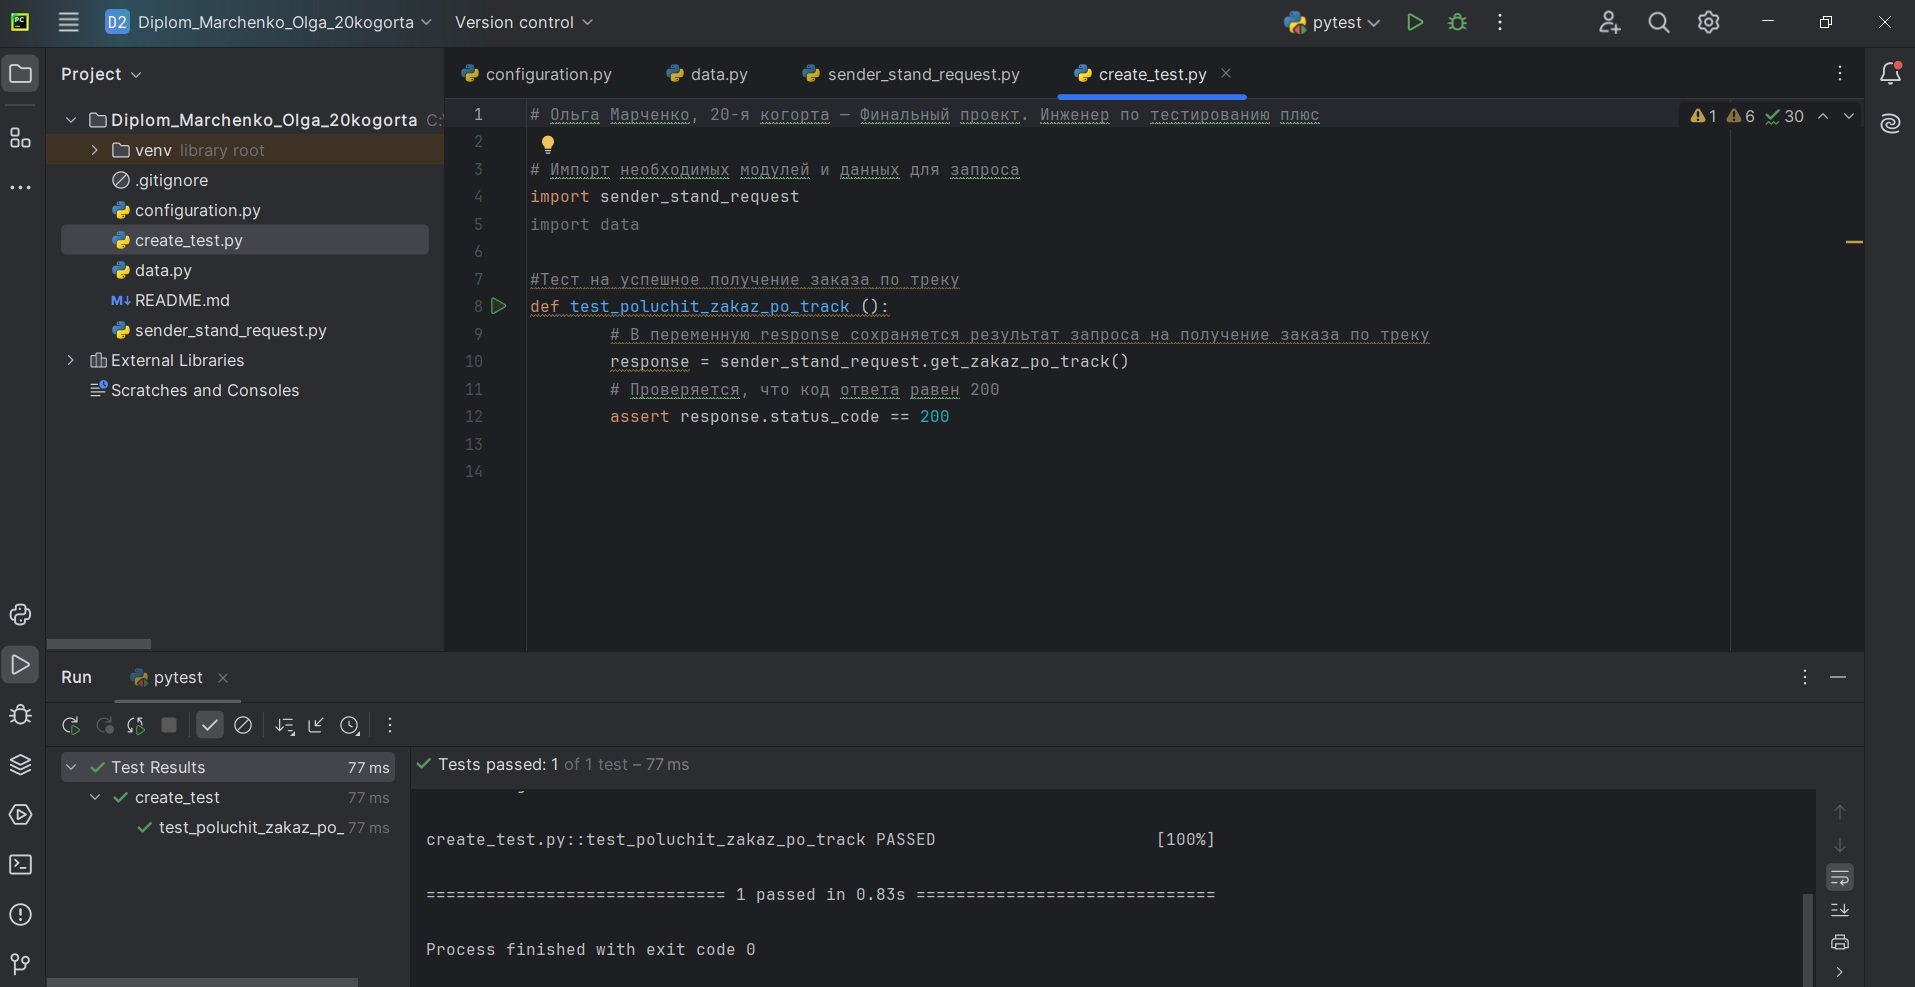
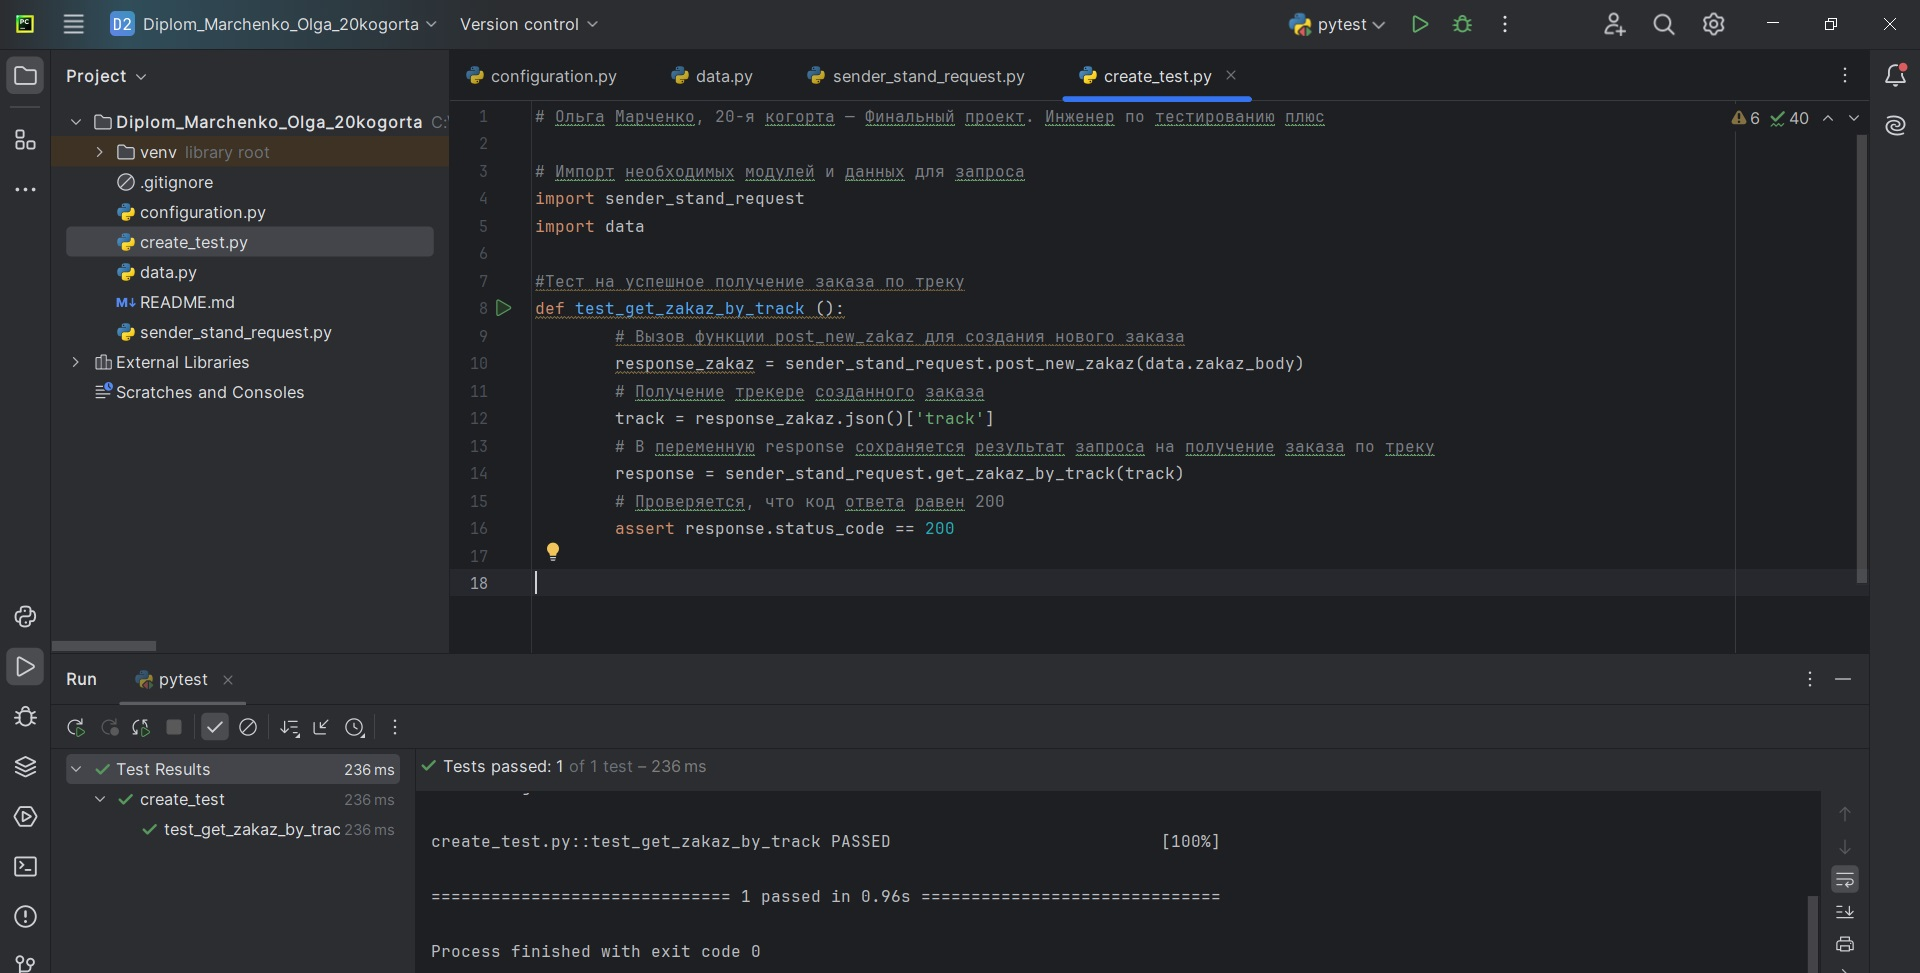
Исправление SQL-запроса во втором задании+исправление автотеста

diff --git a/sender_stand_request.py b/sender_stand_request.py
@@ -9,13 +9,13 @@ def post_new_zakaz(body):
     return requests.post(configuration.URL_SERVICE + configuration.CREATE_ZAKAZ_PATH,
                          json=body)
 # Вызов функции post_new_zakaz
-response_zakaz = post_new_zakaz(data.zakaz_body)
+#response_zakaz = post_new_zakaz(data.zakaz_body)
 # Получение трекере созданного заказа
-response_track =response_zakaz.json()['track']
-print(response_track)
+#response_track =response_zakaz.json()['track']
+#print(response_track)
 
 # Определение функции для отправки GET-запроса на получение заказа по треку
-def get_zakaz_po_track ():
+def get_zakaz_by_track (track):
     # Выполнение GET-запроса с использованием URL из конфигурационного файла и параметра t
-    return requests.get(configuration.URL_SERVICE + configuration.GET_ZAKAZ_PO_TRACK, params={"t":response_track})
+    return requests.get(configuration.URL_SERVICE + configuration.GET_ZAKAZ_BY_TRACK_PATH, params={"t":track})
 

diff --git a/create_test.py b/create_test.py
@@ -5,9 +5,13 @@ import sender_stand_request
 import data
 
 #Тест на успешное получение заказа по треку
-def test_poluchit_zakaz_po_track ():
+def test_get_zakaz_by_track ():
+        # Вызов функции post_new_zakaz для создания нового заказа
+        response_zakaz = sender_stand_request.post_new_zakaz(data.zakaz_body)
+        # Получение трекере созданного заказа
+        track = response_zakaz.json()['track']
         # В переменную response сохраняется результат запроса на получение заказа по треку
-        response = sender_stand_request.get_zakaz_po_track()
+        response = sender_stand_request.get_zakaz_by_track(track)
         # Проверяется, что код ответа равен 200
         assert response.status_code == 200
 

diff --git a/configuration.py b/configuration.py
@@ -1,8 +1,8 @@
 # URL_SERVICE хранит базовый URL веб-сервиса, который используется для доступа к API или другим ресурсам.
-URL_SERVICE = "https://f9458930-83b0-48cd-a69d-d32fdb1f5591.serverhub.praktikum-services.ru"
+URL_SERVICE = "https://0816ad94-e90c-41ae-a4c1-8561b14be4ef.serverhub.praktikum-services.ru"
 
 # Создание нового заказа
 CREATE_ZAKAZ_PATH = "/api/v1/orders"
 
 # Получение заказа по треку
-GET_ZAKAZ_PO_TRACK = "/v1/orders/track"
+GET_ZAKAZ_BY_TRACK_PATH = "/v1/orders/track"
